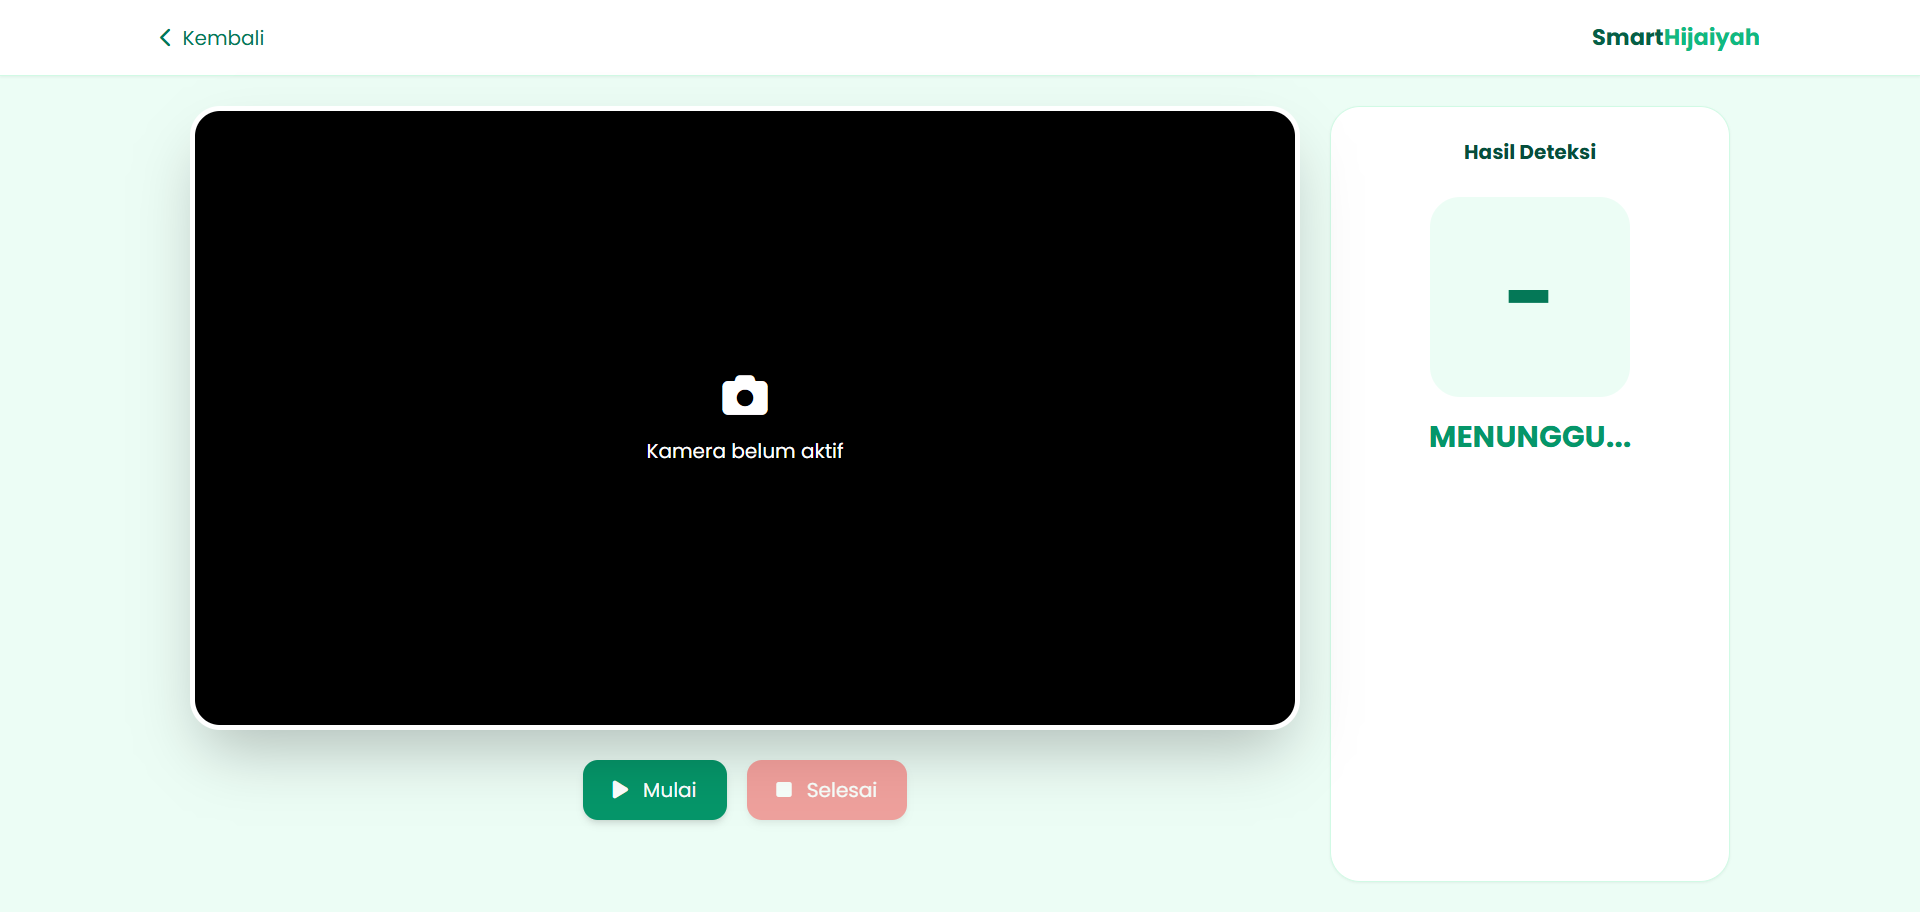
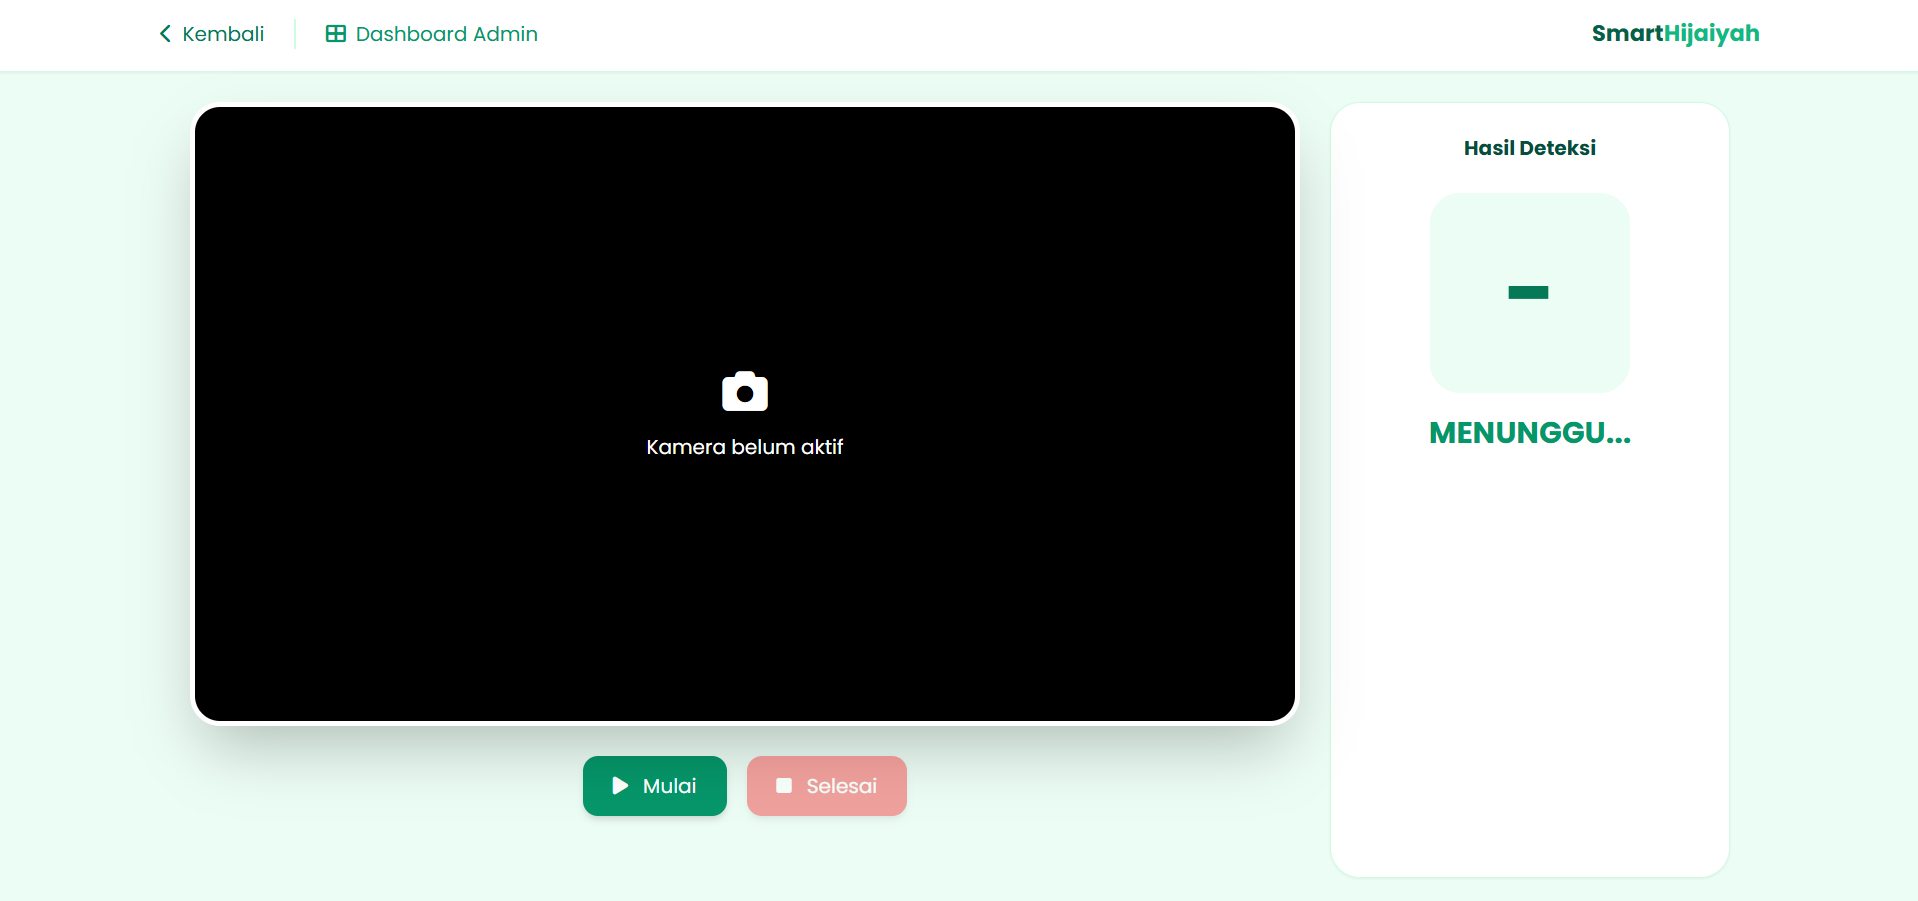
Refactor code structure for improved readability and maintainability

diff --git a/README.md b/README.md
@@ -16,6 +16,21 @@ SmartHijaiyah adalah platform web interaktif berbasis Artificial Intelligence ya
   <img src="preview/belajar.png" width="800">
 </p>
 
+### 🎓 Halaman Dashboard
+<p align="center">
+  <img src="preview/dashboard.png" width="800">
+</p>
+
+### 🎓 Halaman Proses Belajar
+<p align="center">
+  <img src="preview/proses-belajar.png" width="800">
+</p>
+
+### 🎓 Halaman Input Proses Belajar
+<p align="center">
+  <img src="preview/input-nilai.png" width="800">
+</p>
+
 
 ## 🌟 Deskripsi Singkat
 